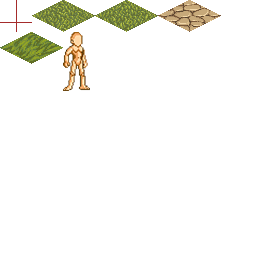
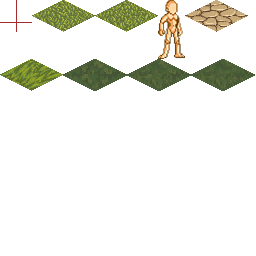
tiles

Changed region(s): [[0.0, 0.0, 1.0, 0.375]]

diff --git a/frontend/src/game/Tile.ts b/frontend/src/game/Tile.ts
@@ -1,9 +1,11 @@
+import {getRandomInt} from "@/utils/Util";
+
 export default class Tile {
 
     /**
      * размеры текстуры тайла
      */
-    public static readonly TEXTURE_WIDTH = 63;
+    public static readonly TEXTURE_WIDTH = 64;
     public static readonly TEXTURE_HEIGHT = 32;
 
     public static readonly TILE_WIDTH_HALF = Tile.TEXTURE_WIDTH / 2;
@@ -13,14 +15,15 @@ export default class Tile {
 
     public static readonly TILE_SIZE = 12;
 
-    public static getTextureName(t: number): string {
+    public static getTextureName(t: number, x: number, y: number): string {
         switch (t) {
             case 0 :
-                return 'grass1.png'
+                return 'grass1'
             case 1 :
-                return 'stone1.png'
+                return 'stone1'
             default :
-                return 'swamp1.png'
+                let r = getRandomInt(3) + 1
+                return 'test_tile_' + r
         }
     }
 }

diff --git a/frontend/src/game/Grid.ts b/frontend/src/game/Grid.ts
@@ -66,7 +66,7 @@ export default class Grid {
                 let x = cx * this.CHUNK_SIZE + tx;
                 let y = cy * this.CHUNK_SIZE + ty;
 
-                let tn = Tile.getTextureName(data[y * Tile.GRID_SIZE + x])
+                let tn = Tile.getTextureName(data[y * Tile.GRID_SIZE + x], x, y)
 
                 let s = PIXI.Sprite.from(tn);
                 s.roundPixels = false;

diff --git a/frontend/src/game/ObjectView.ts b/frontend/src/game/ObjectView.ts
@@ -13,7 +13,7 @@ export default class ObjectView {
     constructor(obj: GameObject) {
         this.obj = obj
 
-        this.view = PIXI.Sprite.from("man.png")
+        this.view = PIXI.Sprite.from("man")
         this.onMoved()
     }
 
